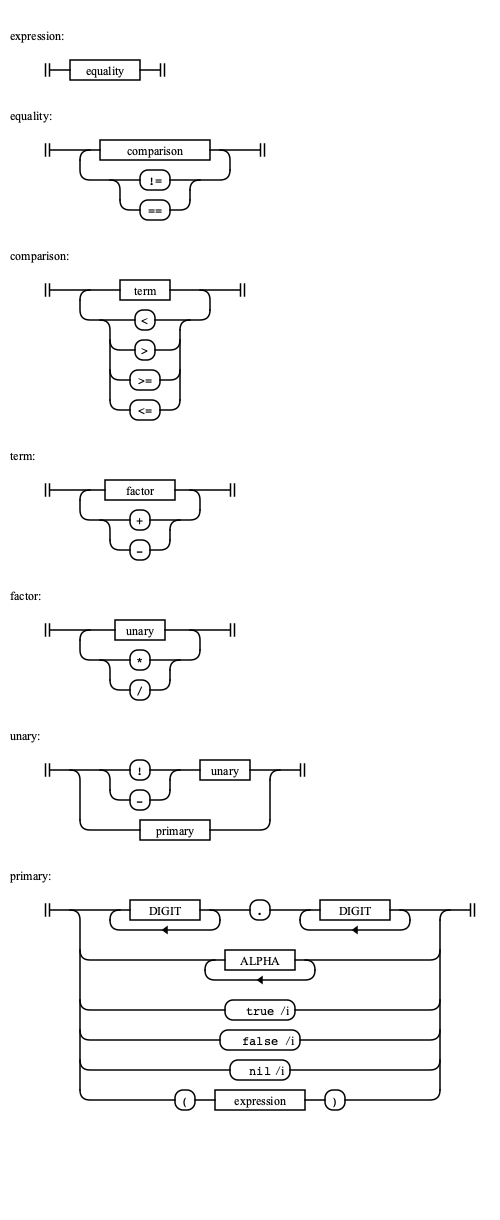
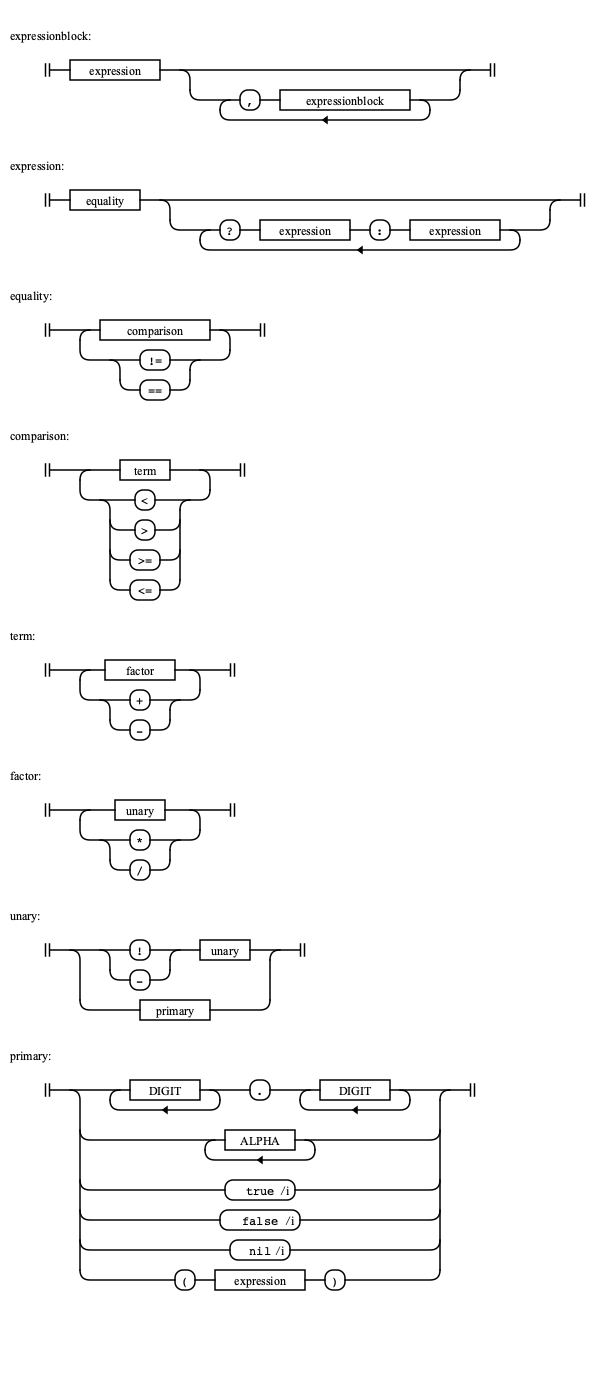
[Parser] Compiler learns to parse ternary conditional operator.
Which is implemented with right-associativity and has more precedence
than "," operator (block expressions) but less than comparison operators.

diff --git a/Tests/iloxTests/parserTests.swift b/Tests/iloxTests/parserTests.swift
@@ -26,10 +26,22 @@ final class basicTest: XCTestCase {
         })
     }
 
+    func testTernaryOperator() throws {
+        XCTAssert(fileCheckOutput(withPrefixes: ["TERNARY_OP"], options: .disableColors) {
+            // TERNARY_OP: (ternary (> 2 3) 1 2)
+            loxInterpreter.run(code: "2 > 3 ? 1 : 2", with: .parse)
+            // TERNARY_OP: (ternary (> 2 3) 1 (ternary (< 1 2) 10 12))
+            loxInterpreter.run(code: "2 > 3 ? 1 : 1 < 2 ? 10 : 12", with: .parse)
+            // TERNARY_OP: (ternary (> 2 3) (ternary (< 1 2) 10 12) 1)
+            loxInterpreter.run(code: "2 > 3 ? 1 < 2 ? 10 : 12 : 1", with: .parse)
+        })
+    }
+
 #if !os(macOS)
     static var allTests = testCase([
         ("testPrettyPrinter", testPrettyPrinter),
-        ("testExprBlock", testExprBlock)
+        ("testExprBlock", testExprBlock),
+        ("testTernaryOperator", testTernaryOperator)
     ])
 #endif
 }

diff --git a/Sources/ilox/Parse/Parser.swift b/Sources/ilox/Parse/Parser.swift
@@ -79,7 +79,18 @@ final class Parser {
     }
 
     private func expression() -> Expr {
-        return equality();
+        var expr = equality();
+
+        // TODO: handle errors for ternary op syntax.
+        if (match(.QUESTION_MARK)) {
+            var thenExpr = expression()
+            if (match(.COLON)) {
+                var elseExpr = expression()
+                return TernaryOp(condition: expr, thenExpr: thenExpr, elseExpr: elseExpr)
+            }
+        }
+
+        return expr;
     }
 
     private func equality() -> Expr {

diff --git a/Sources/ilox/AST/Printer.swift b/Sources/ilox/AST/Printer.swift
@@ -15,6 +15,15 @@ class ASTPrinter : Visitor {
     func visitExprExprBlock(expr: ExprBlock) -> String {
         return parenthesize(name: "expr-block", expr.head, expr.tail)
     }
+
+    func visitExprTernaryOp(expr: TernaryOp) -> String {
+        return parenthesize(
+            name: "ternary",
+            expr.condition,
+            expr.thenExpr,
+            expr.elseExpr)
+    }
+
     func visitExprBinary(expr: Binary) -> String {
         return parenthesize(name: expr.op.lexeme, expr.left, expr.right)
     }

diff --git a/Sources/ilox/AST/PrinterRPN.swift b/Sources/ilox/AST/PrinterRPN.swift
@@ -12,6 +12,14 @@ class ASTPrinterRPN : Visitor {
         return parenthesize(name: "expr-block", expr.head, expr.tail)
     }
 
+    func visitExprTernaryOp(expr: TernaryOp) -> String {
+        return parenthesize(
+            name: "ternary",
+            expr.condition,
+            expr.thenExpr,
+            expr.elseExpr)
+    }
+
     func print(expr: Expr) -> String {
         return expr.accept(visitor: self)
     }

diff --git a/README.md b/README.md
@@ -49,10 +49,11 @@ To avoid ambiguity during parsing of expressions, we define the associativity of
 As well, the table lists the operators in order of precedence, from lower to higher.
 
 | **Operator family** | **Operators** | **Associates** |
-|-----------------|-----------|------------|
-| Block           | ,         | Left       |
-| Equality        | == !=     | Left       |
-| Comparison      | > >= < <= | Left       |
-| Term            | - +       | Left       |
-| Factor          | / *       | Left       |
-| Unary           | ! -       | Right      |
+|---------------------|---------------|----------------|
+| Block               | ,             | Left           |
+| Ternary condition   | ? :           | Right          |
+| Equality            | == !=         | Left           |
+| Comparison          | > >= < <=     | Left           |
+| Term                | - +           | Left           |
+| Factor              | / *           | Left           |
+| Unary               | ! -           | Right          |
